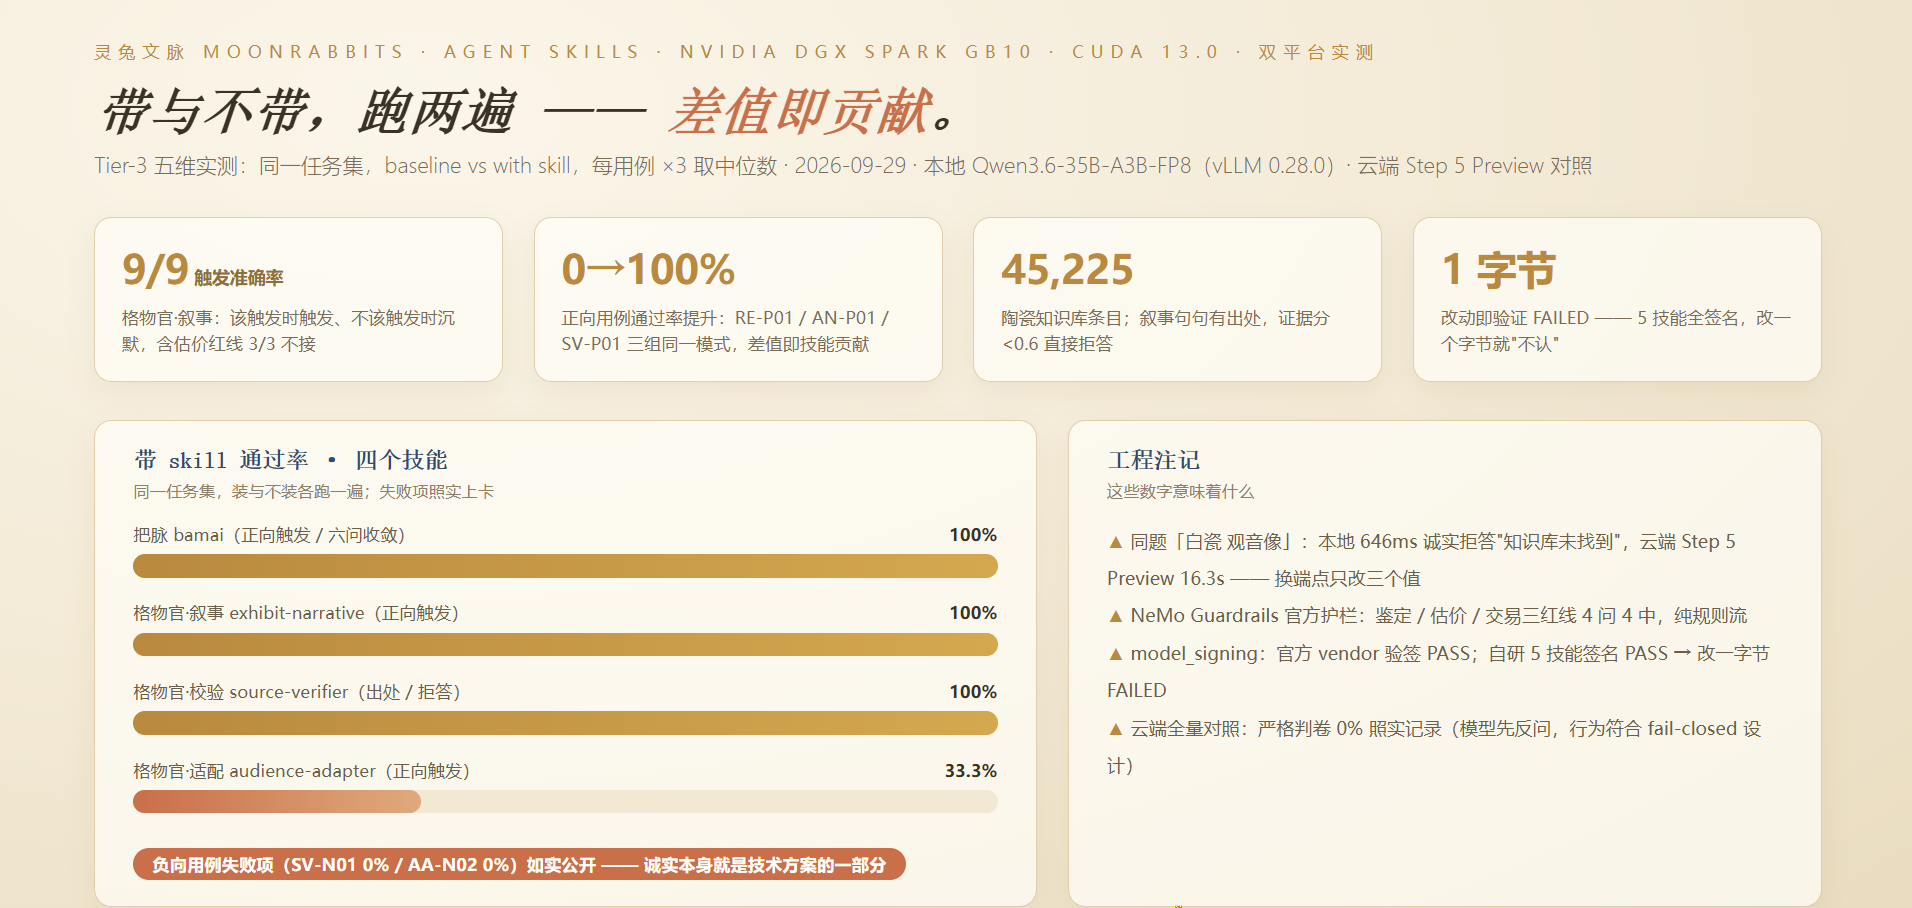
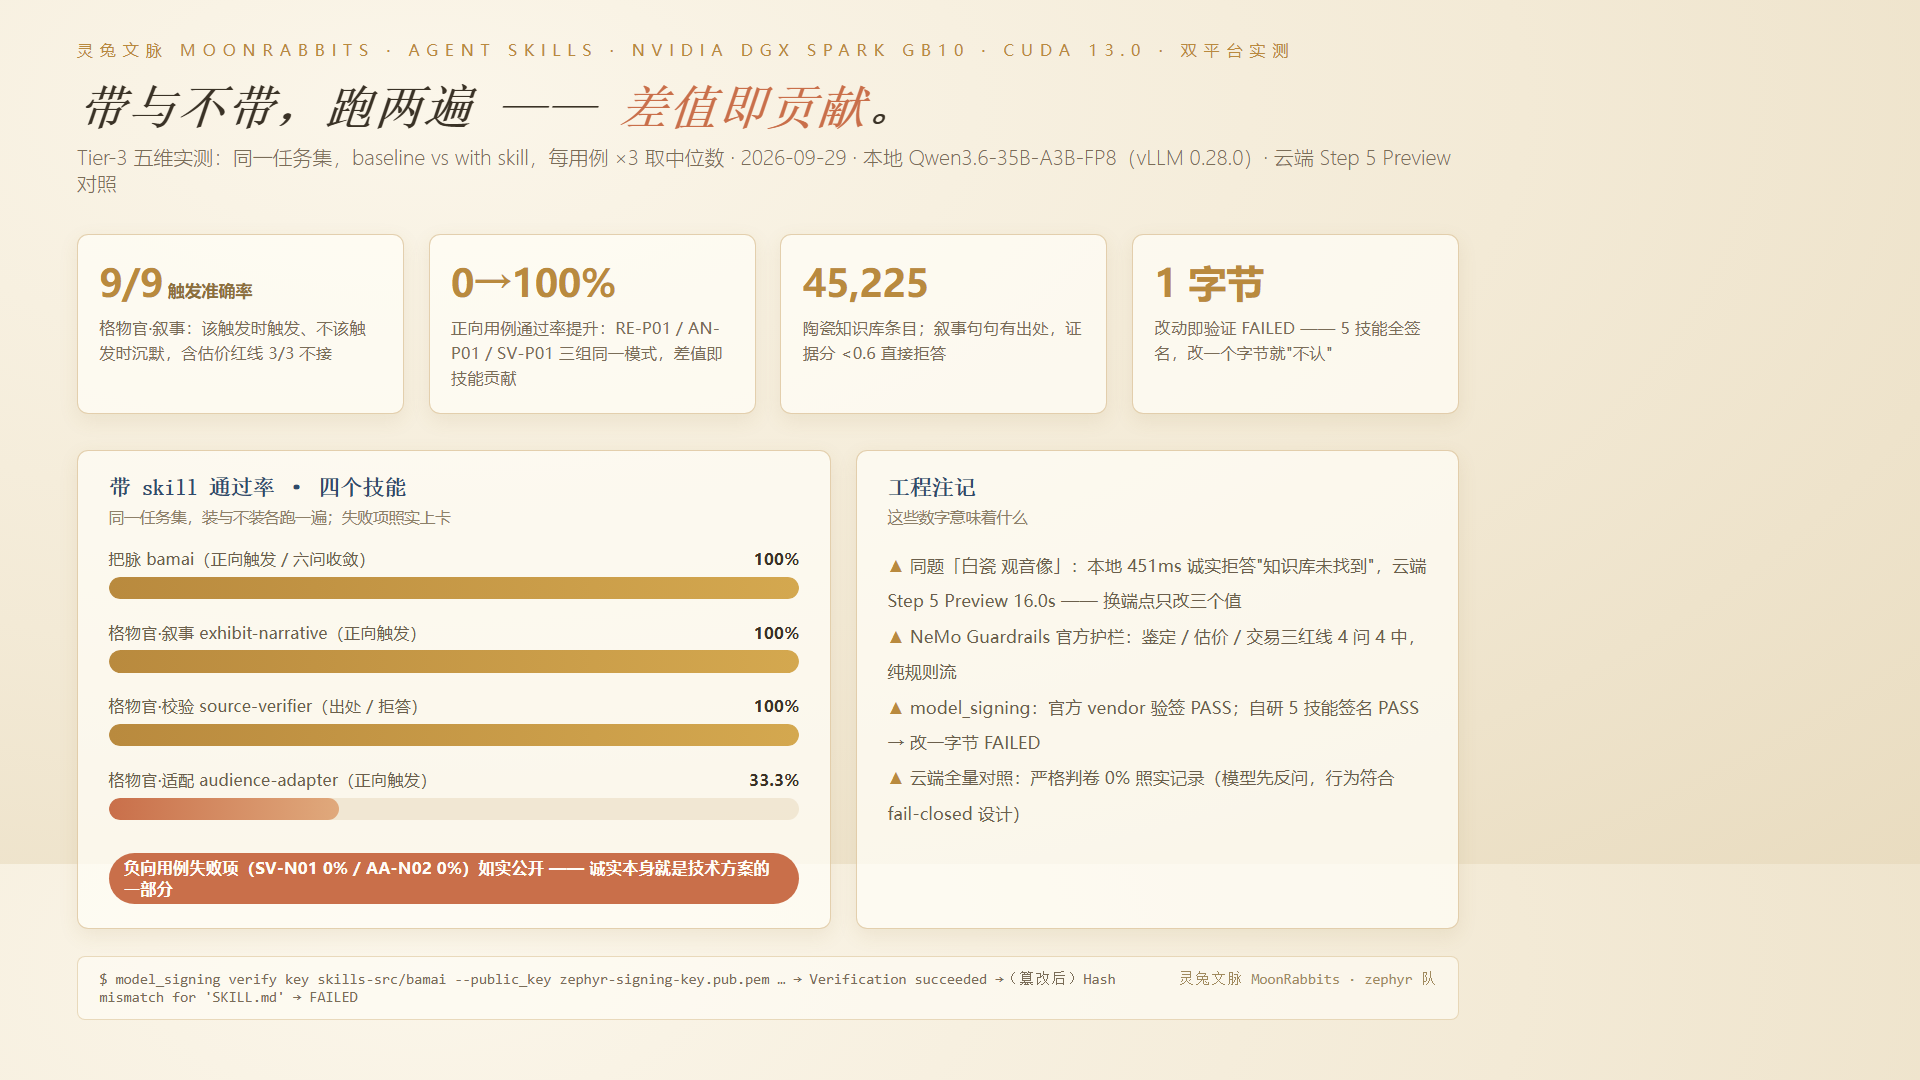
视觉: 跑分卡更新为 451ms/16.0s 实测版; README 首图定基调(光而不耀)

diff --git a/README.md b/README.md
@@ -3,6 +3,8 @@
 > **拍一件展品，带走它的时代故事。**
 > Take a photo of an exhibit — bring home the story of its age.
 
+![光而不耀，静水流深 · A humble and enduring brilliance](docs/视觉/README首图-光而不耀.png)
+
 **灵兔文脉（MoonRabbits）是一个文化遗产多智能体叙事系统。**
 
 它只做一件事：让观众对着展柜里的器物拍一张照，就能听见一段**每一句都有出处**的故事——从釉色、工艺、窑口讲到一个时代的气息；而**讲不出来源的时候，宁可说"我不知道"**。
